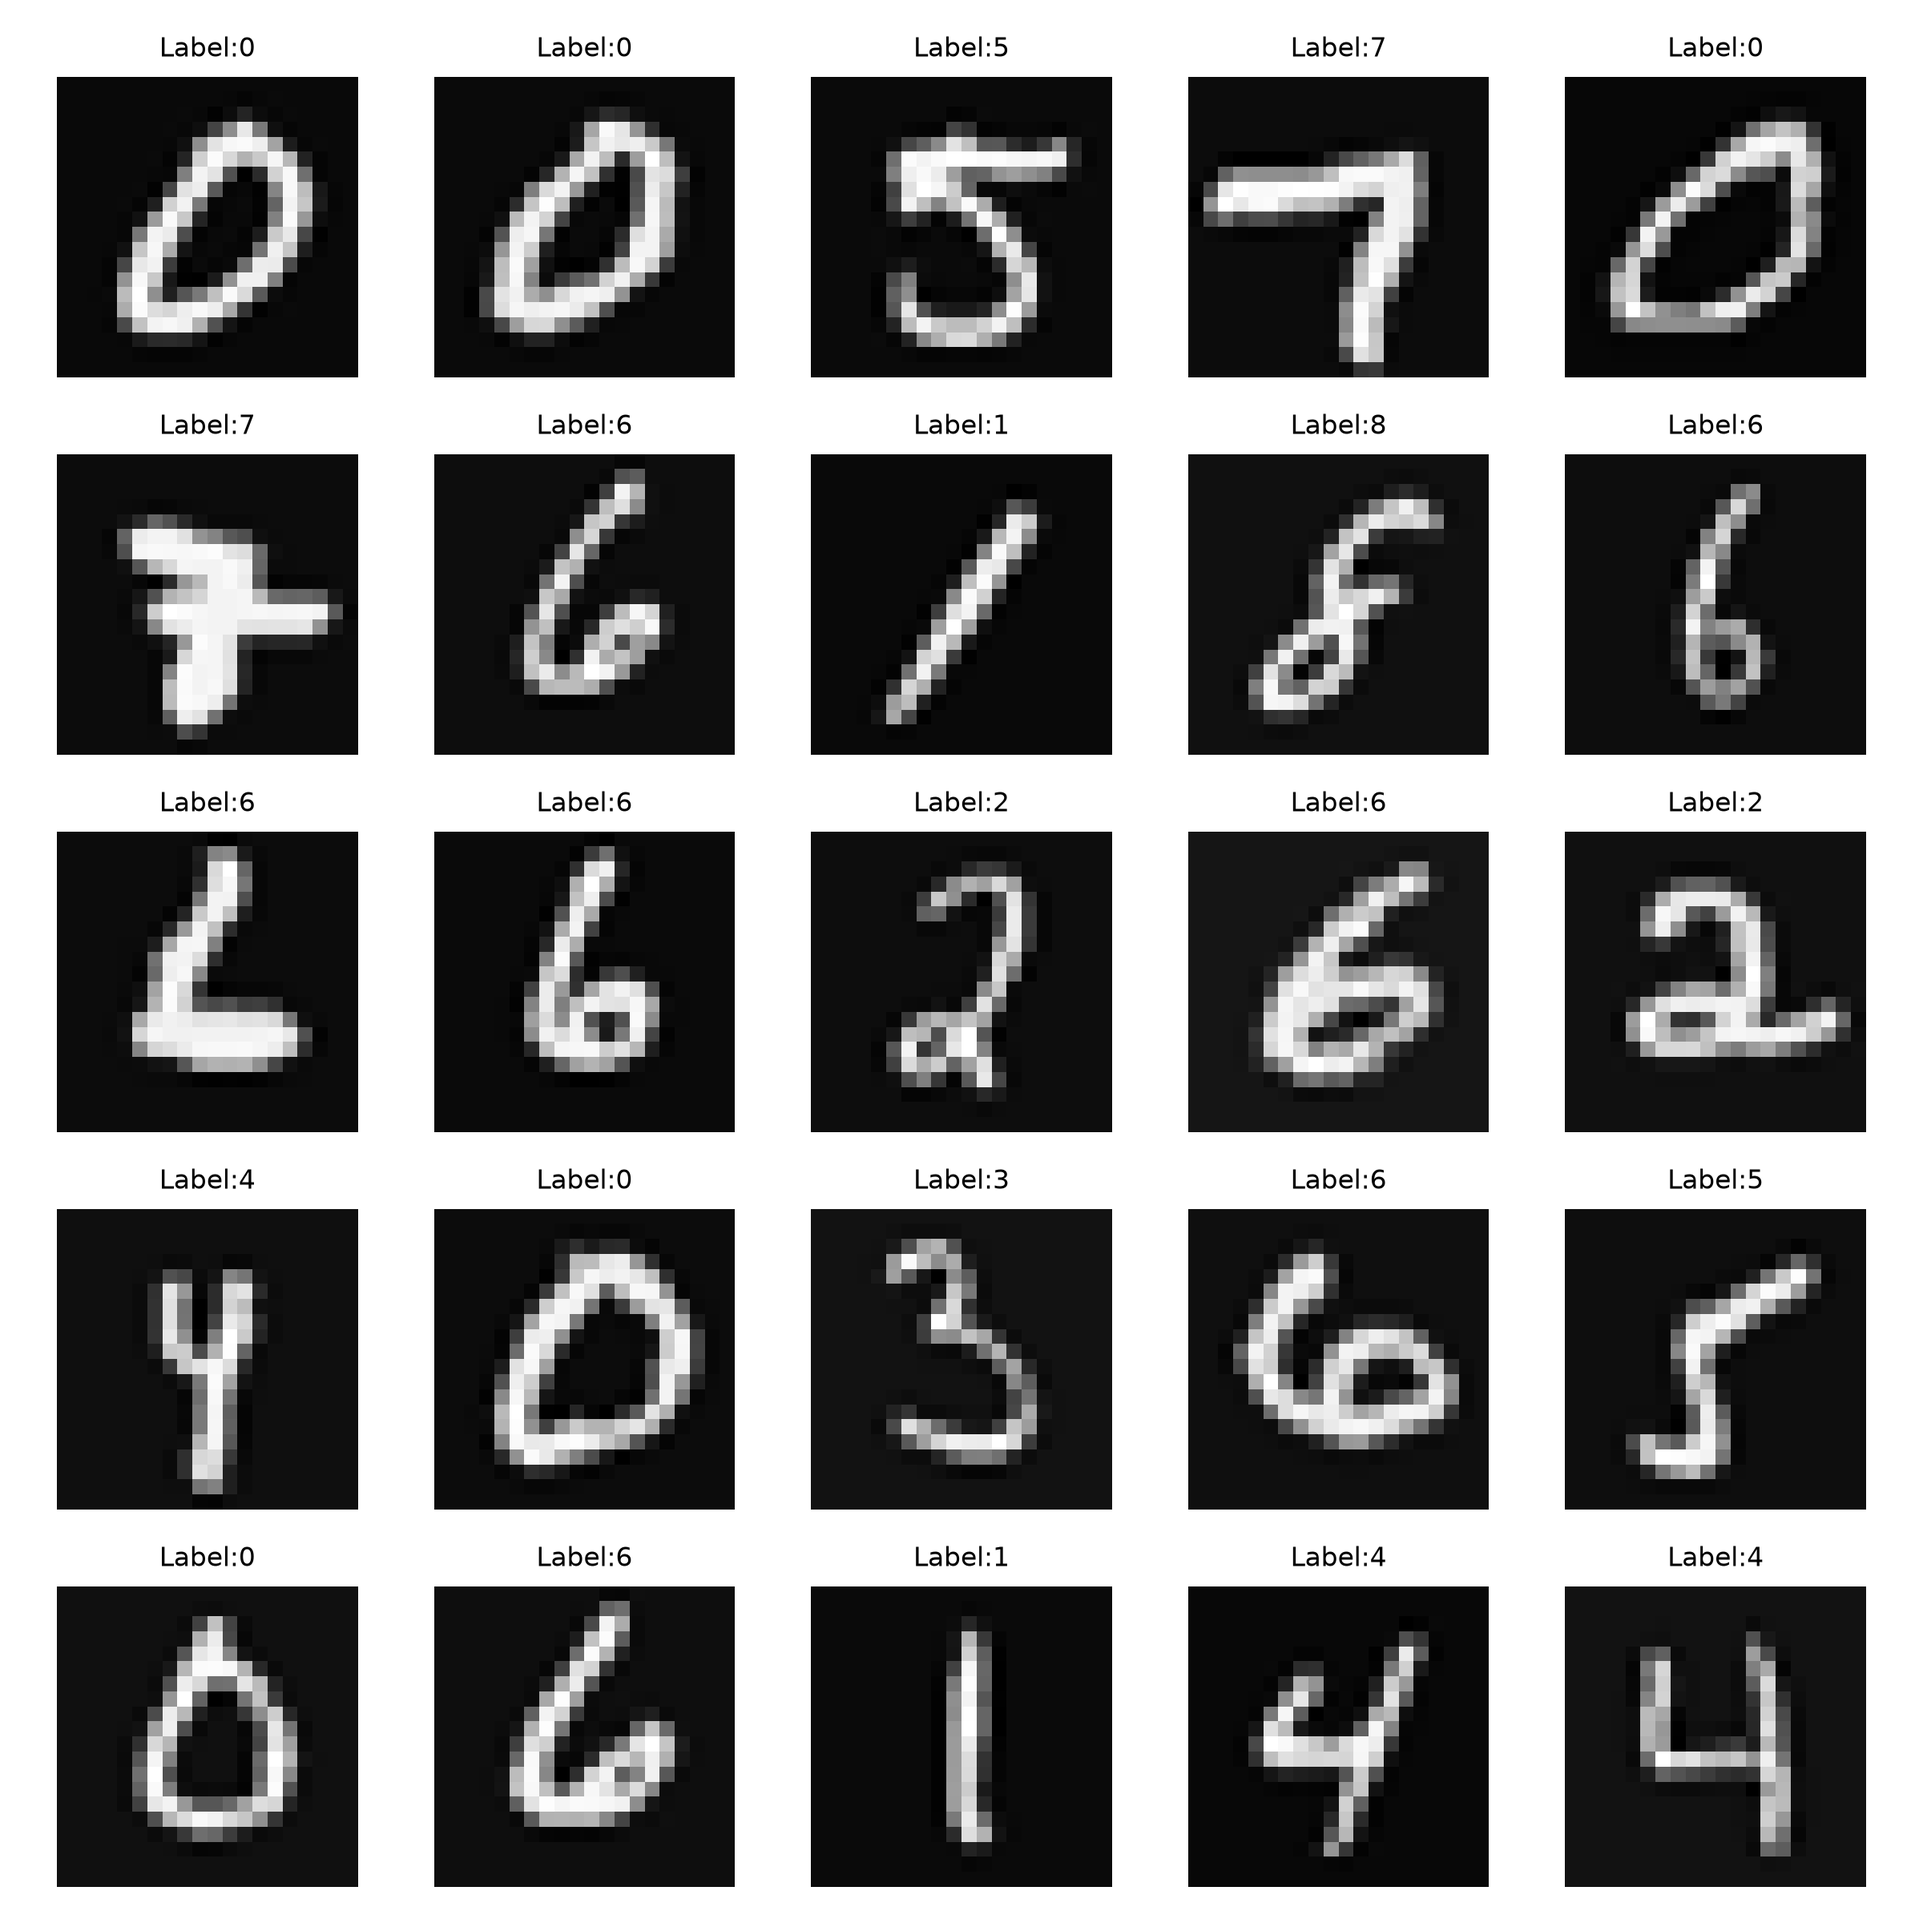
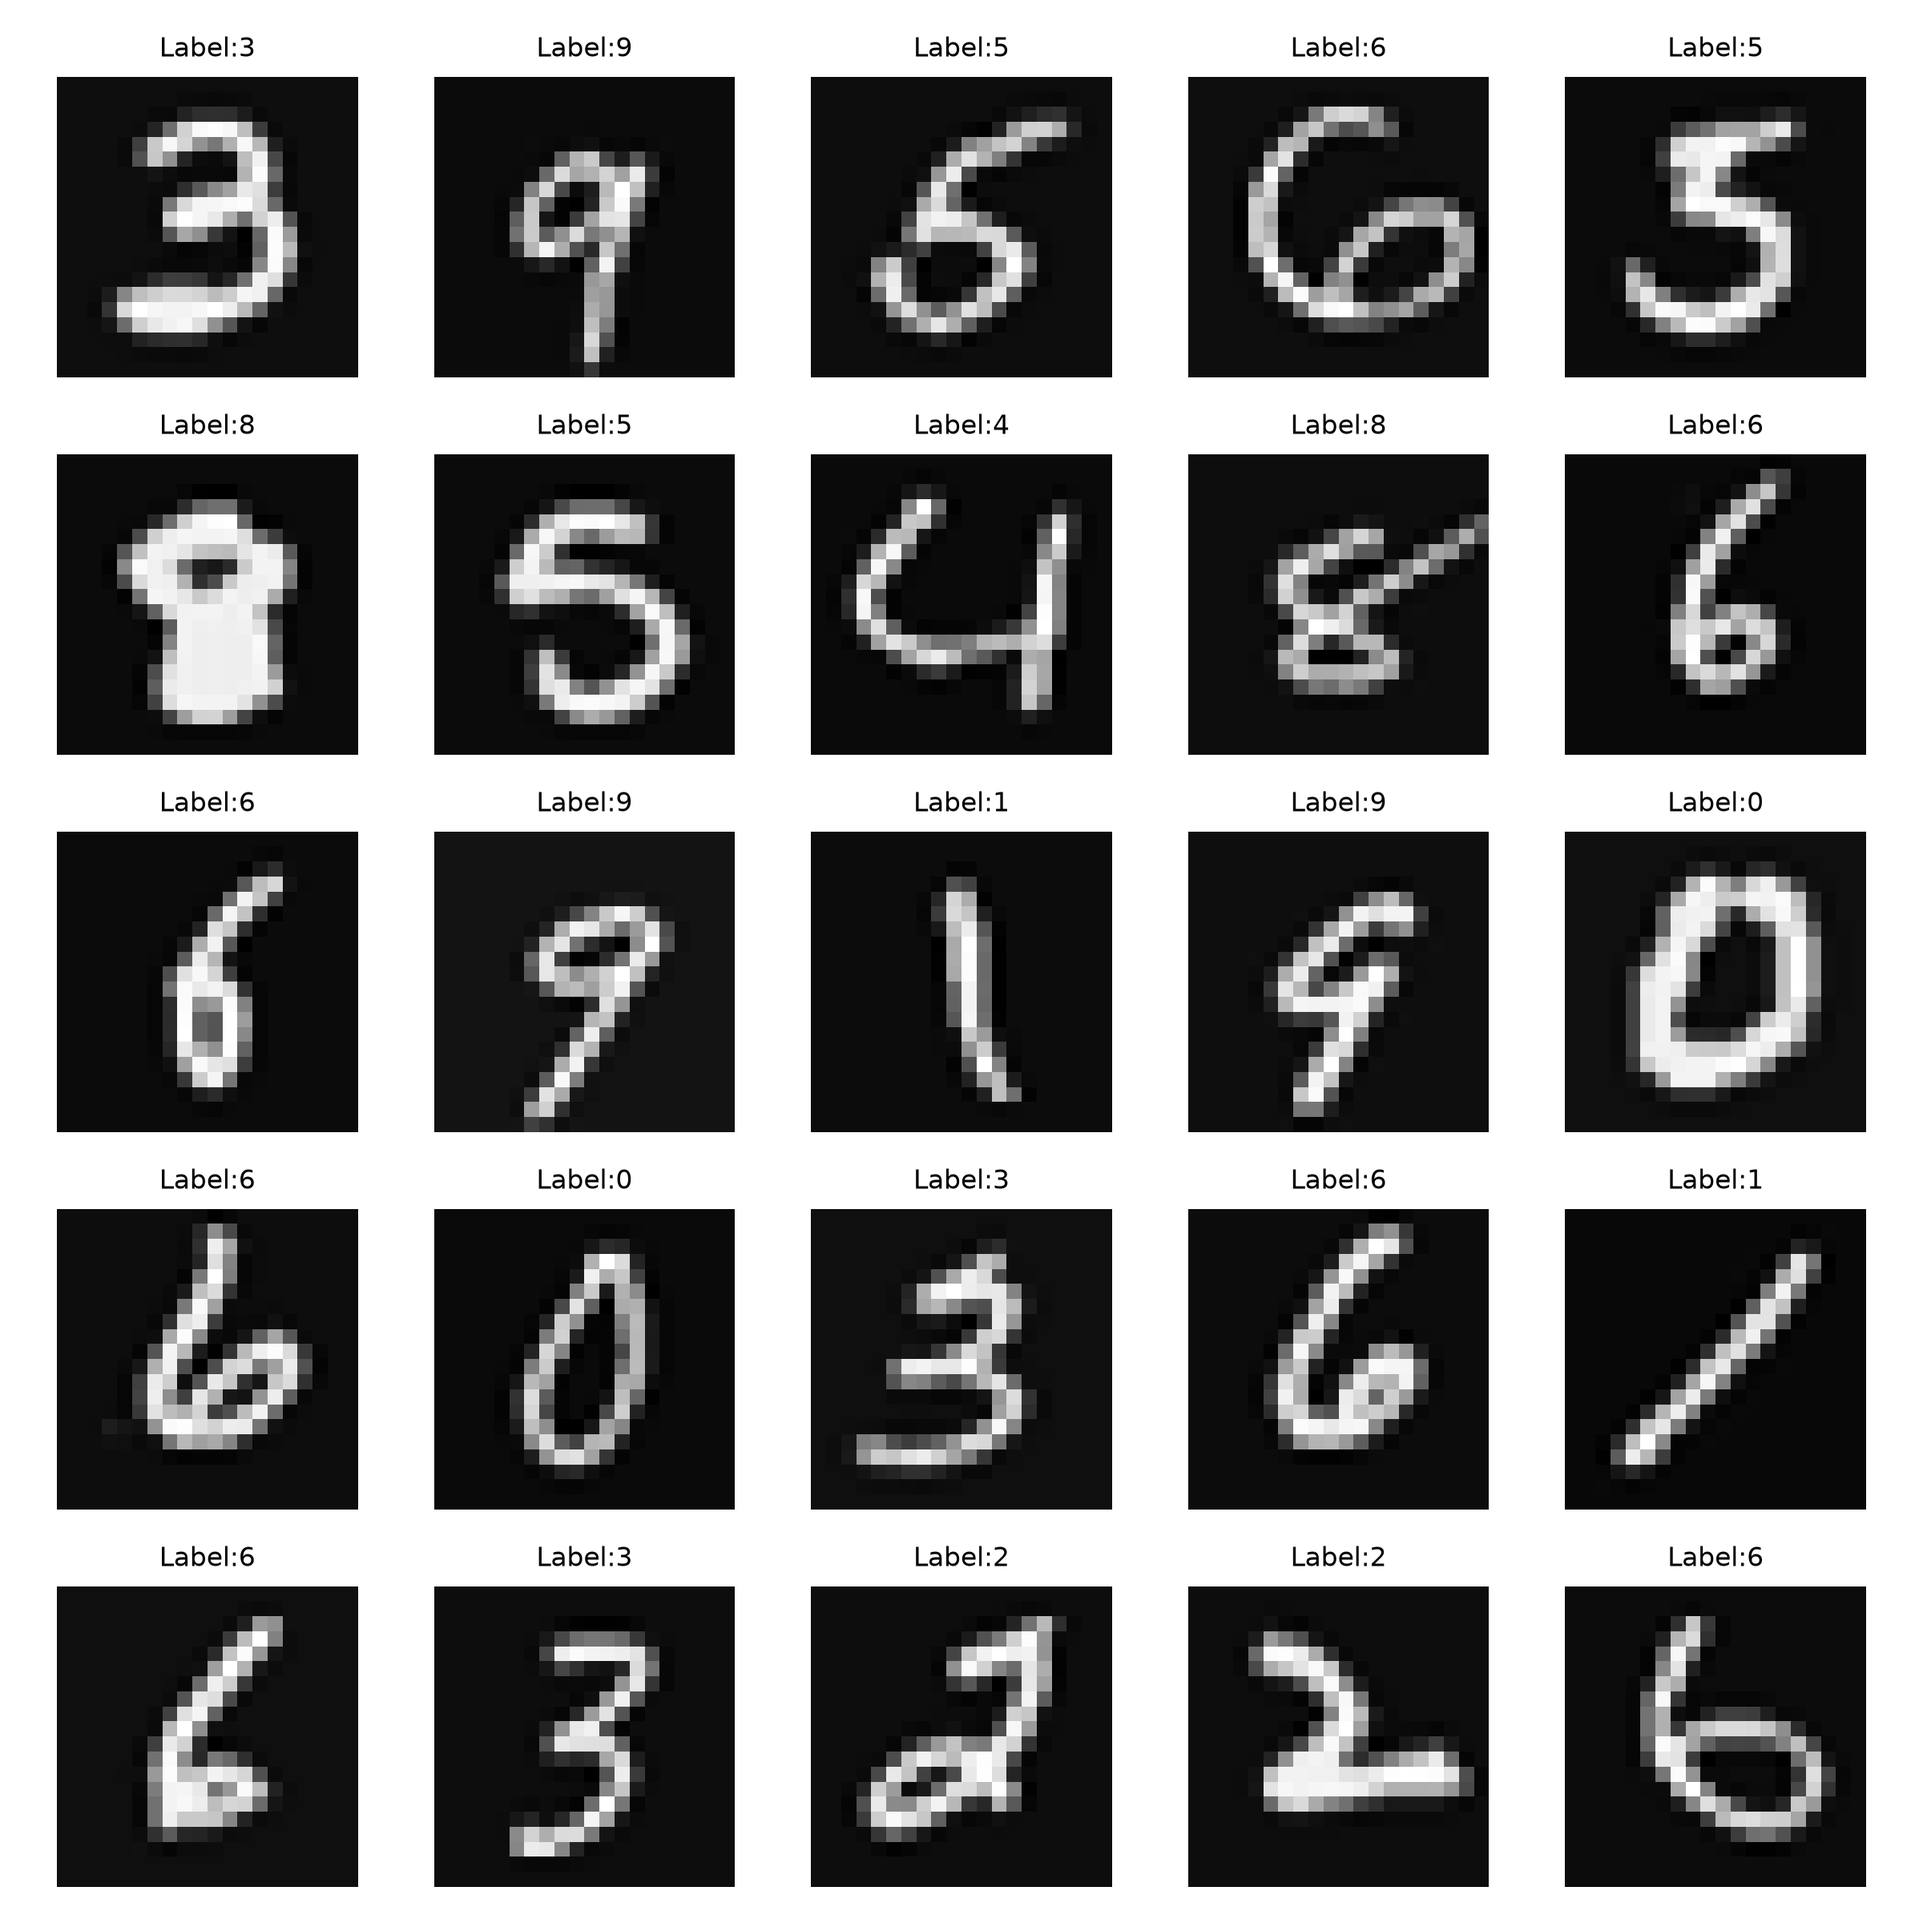
refactor: clean up training pipeline

diff --git a/train.py b/train.py
@@ -5,7 +5,6 @@ from src.training.trainer import Trainer
 from src.evaluation.metrics import ModelEvaluator
 from src.config import (DATA_PATH, MODEL_PATH, LEARNING_RATE, EPOCHS)
 from src.data.eda import DataAnalyzer
-from predict import main as predict
 from src.utils.logger import logger
 import mlflow
 import mlflow.pytorch
@@ -37,7 +36,7 @@ def main() -> None:
 
         model = DigitClassifier()
 
-        mlflow.log_param("learning Rate",LEARNING_RATE)
+        mlflow.log_param("learning_rate",LEARNING_RATE)
         mlflow.log_param("epochs",EPOCHS)
         mlflow.log_param("optimizer","SGD")
         mlflow.log_param("loss_function","CrossEntropyLoss")
@@ -65,20 +64,15 @@ def main() -> None:
         print(f"Recall    : {metrics['recall']:.4f}")
         print(f"F1 Score  : {metrics['f1_score']:.4f}")
 
-        mlflow.log_metric("accuracy", metrics["accuracy"])
-        mlflow.log_metric("precision", metrics["precision"])
-        mlflow.log_metric("recall", metrics["recall"])
-        mlflow.log_metric("f1_score", metrics["f1_score"])
+        mlflow.log_metrics(metrics)
 
         logger.info("Saving figures...")
         evaluator.plot_confusion_matrix(model, x_test, y_test)
         evaluator.plot_loss_curve(trainer.loss_history, trainer.val_loss_history)
 
-        predict()
+
         mlflow.log_artifact("figures/confusion_matrix.png")
         mlflow.log_artifact("figures/loss_curve.png")
-        mlflow.log_artifact("figures/prediction_result.png")
-
         mlflow.pytorch.log_model(model, artifact_path="model")
         logger.info("Training complete Successfully!")
 
